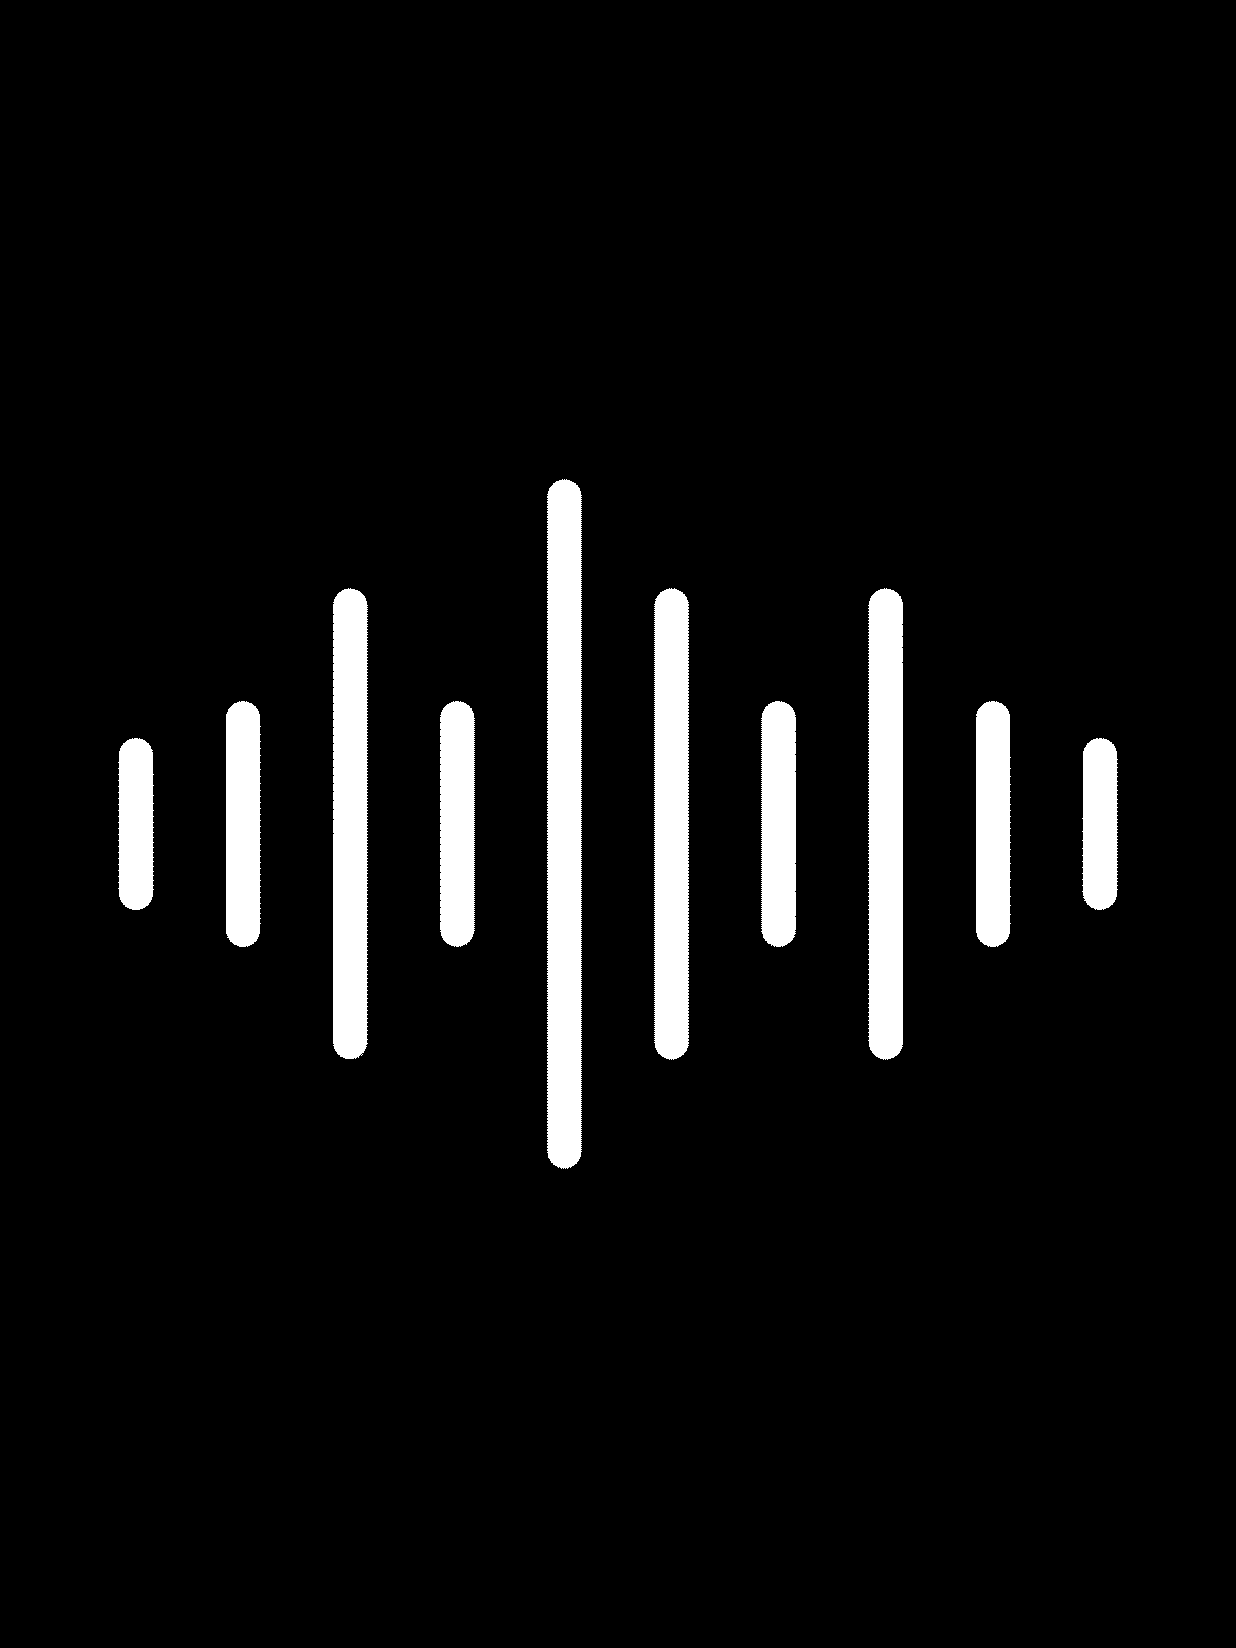
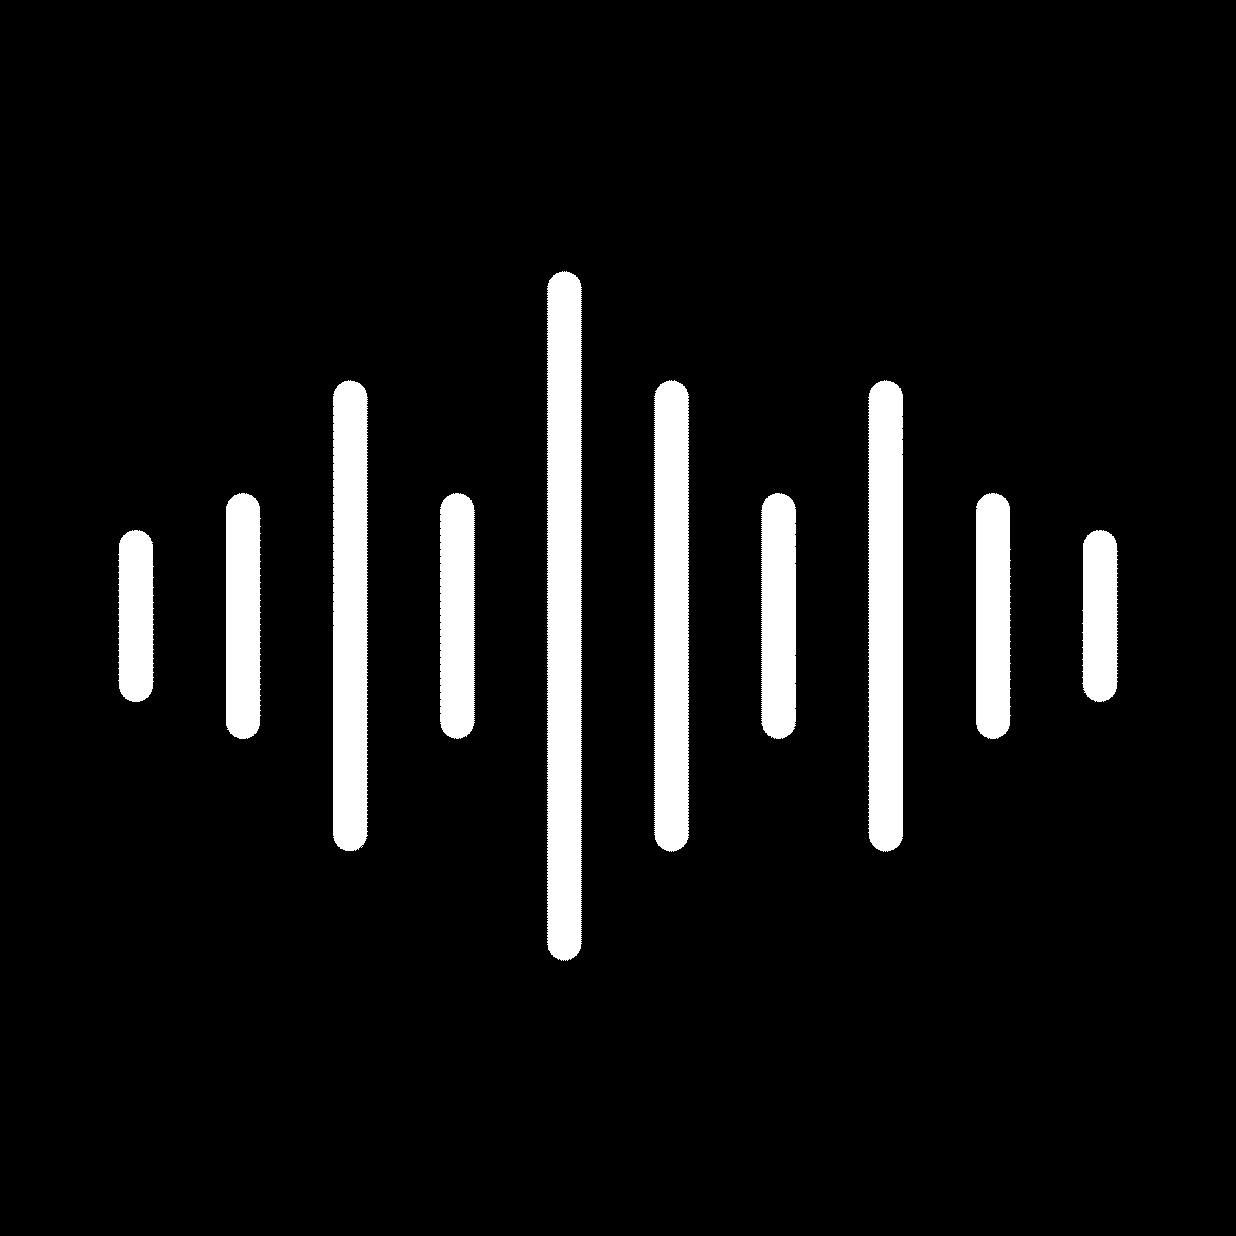
feat(thumbnail): center-crop imported thumbnails to a strict 256x256 square
- ThumbnailService now takes the largest centered square of the source image, draws it with
  SKCanvas.DrawBitmap using explicit source/destination rectangles and encodes the result:
  JPEG 85 for opaque images, PNG when the source uses transparency (alpha channel preserved).
- every imported thumbnail is exactly 256x256; smaller pictures are upscaled to the square size.
- updated Assets/logo.ico from the new square logo and integrated the latest square
  soundboard2.png default thumbnail.
- validated with 12 headless assertions: square dimensions, center-crop correctness on
  horizontal/vertical test patterns, transparent-corner alpha, compression ratio, invalid input.

diff --git a/Services/ThumbnailService.cs b/Services/ThumbnailService.cs
@@ -7,15 +7,19 @@ namespace BliBloup.Services
     public sealed record ThumbnailResult(string Path, int Width, int Height, long Bytes, bool Resized);
 
     /// <summary>
-    /// Produces the small, compressed copies used as sound thumbnails.
+    /// Produces the square, compressed copies used as sound thumbnails.
     ///
-    /// Images are scaled down to fit a 256x256 box (aspect ratio preserved, never upscaled) and
-    /// re-encoded: JPEG 85 for opaque images (photos) and PNG for images with transparency.
-    /// That keeps the soundboard UI responsive even when the user imports multi-megabyte pictures.
+    /// Every image is center-cropped to its smallest side (so the result contains the middle of
+    /// the picture without distortion) and resized to exactly 256x256 through SKCanvas.DrawBitmap.
+    /// The copy is then encoded: JPEG 85 for opaque images (photos) and PNG for images that use
+    /// transparency, preserving the alpha channel. That keeps the soundboard UI responsive even
+    /// when the user imports multi-megabyte pictures.
     /// </summary>
     public static class ThumbnailService
     {
-        public const int MaxDimension = 256;
+        /// <summary>Thumbnails are strictly square: this is both width and height.</summary>
+        public const int Size = 256;
+
         public const int JpegQuality = 85;
 
         public static ThumbnailResult CreateThumbnail(string sourcePath, string destinationDirectory, string baseName)
@@ -28,27 +32,51 @@ namespace BliBloup.Services
             using var input = SKBitmap.Decode(sourcePath)
                 ?? throw new InvalidOperationException("The selected file is not a supported image (PNG or JPEG).");
 
-            int width = input.Width;
-            int height = input.Height;
-
-            if (width <= 0 || height <= 0)
+            if (input.Width <= 0 || input.Height <= 0)
             {
                 throw new InvalidOperationException("The selected image has invalid dimensions.");
             }
 
-            double scale = Math.Min(1.0, (double)MaxDimension / Math.Max(width, height));
-            int targetWidth = Math.Max(1, (int)Math.Round(width * scale));
-            int targetHeight = Math.Max(1, (int)Math.Round(height * scale));
-
-            using var resized = input.Resize(new SKImageInfo(targetWidth, targetHeight), SKFilterQuality.High)
-                ?? throw new InvalidOperationException("The image could not be resized.");
-
             bool keepAlpha = input.AlphaType != SKAlphaType.Opaque;
+
+            // Center crop: take the largest centered square of the source.
+            int side = Math.Min(input.Width, input.Height);
+            int left = (input.Width - side) / 2;
+            int top = (input.Height - side) / 2;
+
+            // BGRA keeps a real alpha channel for PNG and is also accepted by the JPEG encoder.
+            var alphaType = keepAlpha ? SKAlphaType.Premul : SKAlphaType.Opaque;
+            var imageInfo = new SKImageInfo(Size, Size, SKColorType.Bgra8888, alphaType);
+
+            using var surface = SKSurface.Create(imageInfo)
+                ?? throw new InvalidOperationException("The thumbnail surface could not be created.");
+
+            var canvas = surface.Canvas;
+
+            if (keepAlpha)
+            {
+                // Transparent padding/fill so the destination keeps a real alpha channel.
+                canvas.Clear(SKColors.Transparent);
+            }
+
+            using (var paint = new SKPaint
+                   {
+                       FilterQuality = SKFilterQuality.High,
+                       IsAntialias = true
+                   })
+            {
+                var sourceRect = new SKRect(left, top, left + side, top + side);
+                var destinationRect = new SKRect(0, 0, Size, Size);
+                canvas.DrawBitmap(input, sourceRect, destinationRect, paint);
+            }
+
+            canvas.Flush();
+
+            using var cropped = surface.Snapshot();
             var format = keepAlpha ? SKEncodedImageFormat.Png : SKEncodedImageFormat.Jpeg;
             var extension = keepAlpha ? ".png" : ".jpg";
 
-            using var image = SKImage.FromBitmap(resized);
-            using var encoded = image.Encode(format, keepAlpha ? 100 : JpegQuality);
+            using var encoded = cropped.Encode(format, keepAlpha ? 100 : JpegQuality);
 
             if (encoded is null || encoded.Size == 0)
             {
@@ -65,10 +93,10 @@ namespace BliBloup.Services
 
             return new ThumbnailResult(
                 destination,
-                targetWidth,
-                targetHeight,
+                Size,
+                Size,
                 new FileInfo(destination).Length,
-                scale < 1.0 || encoded.Size < new FileInfo(sourcePath).Length);
+                input.Width != Size || input.Height != Size);
         }
     }
 }

diff --git a/CHANGELOG.md b/CHANGELOG.md
@@ -28,7 +28,7 @@ The format is based on [Keep a Changelog](https://keepachangelog.com/)
 - Keyboard focus rings and higher contrast for the dark theme; smaller minimum window size
 - Discreet background playback toast (no focus steal) and a single click on the tray icon reopens the window
 - Actionable audio error messages (missing file, no output device, unavailable routing)
-- Sound thumbnails: bundled default thumbnail (soundboard.png), click the thumbnail in the sound panel to pick a custom image; imports are automatically resized to at most 256 px and compressed (JPEG 85 for photos, PNG when transparency is needed), a missing custom image falls back to the default, and a Reset thumbnail button restores soundboard.png
+- Sound thumbnails: bundled default thumbnail (soundboard.png), click the thumbnail in the sound panel to pick a custom image; imports are center-cropped to a square, resized to exactly 256×256 and compressed (JPEG 85 for photos, PNG when transparency is needed), a missing custom image falls back to the default, and a Reset thumbnail button restores soundboard.png
 
 ### Removed
 - Redundant Rename button (the inline Title field is the rename control)
